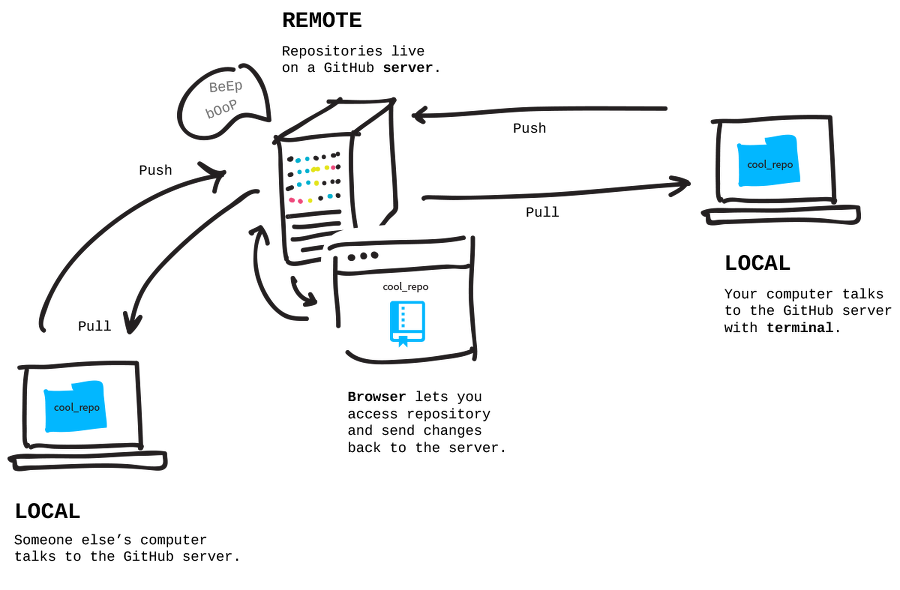
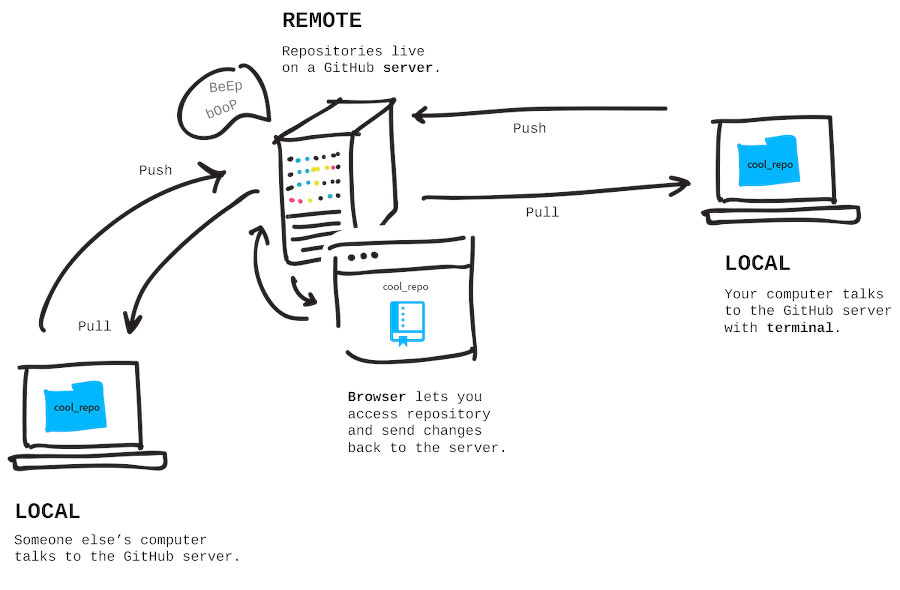
Cambio de tema a uno oscuro

diff --git a/src/index.js b/src/index.js
@@ -5,7 +5,7 @@ import Zoom from 'reveal.js/plugin/zoom/zoom.esm.js';
 import PlantUml from './plantUml';
 
 import 'reveal.js/dist/reveal.css';
-import 'reveal.js/dist/theme/beige.css';
+import 'reveal.js/dist/theme/night.css';
 import 'reveal.js/plugin/highlight/zenburn.css';
 
 const slide = new Reveal({

diff --git a/public/index.html b/public/index.html
@@ -21,7 +21,7 @@
     <div class="reveal">
       <div class="slides">
         <section
-          data-background-color="#dd9f75"
+          data-background-color="#21272e"
           data-markdown="index.md"
           data-separator="^\n===\n$"
           data-separator-vertical="^\n--\n$"

diff --git a/public/css/index.css b/public/css/index.css
@@ -17,3 +17,12 @@
 .fullscreen code {
   max-height: fit-content !important;
 }
+
+h1 {
+  font-size: 2.8em !important;
+  text-transform: uppercase !important;
+}
+
+strong {
+  color: #e69055 !important;
+}
